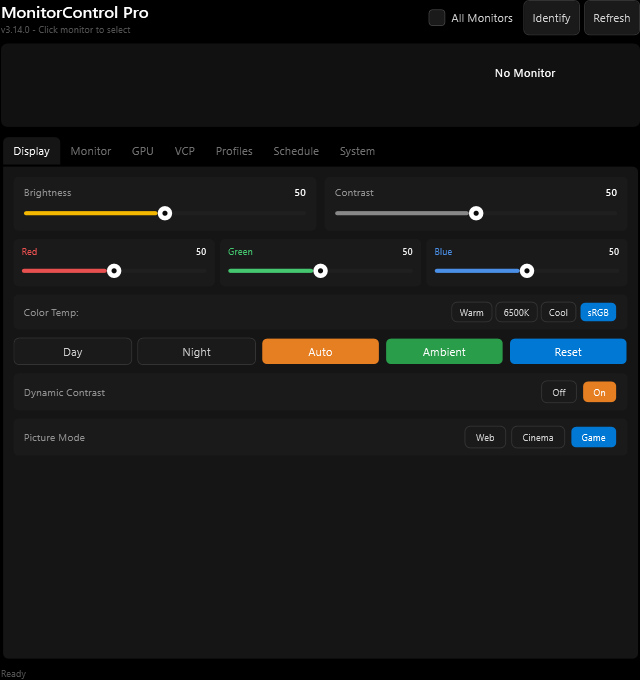
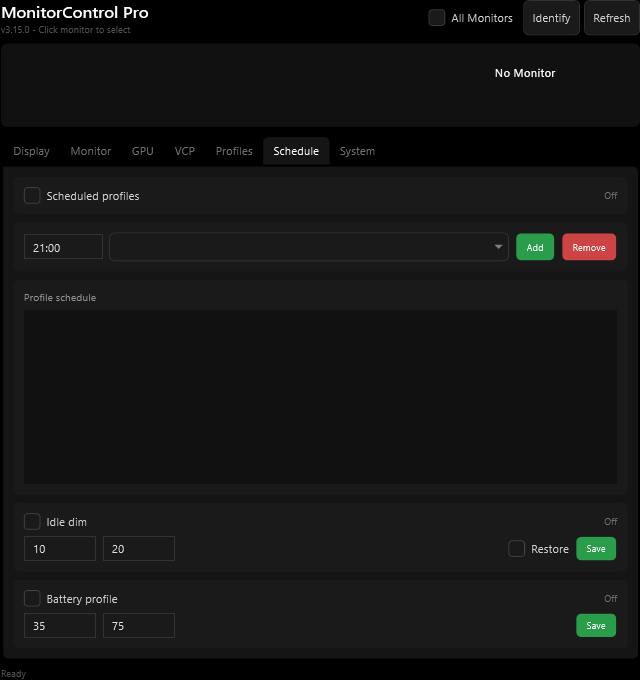
feat: add battery brightness profiles

diff --git a/README.md b/README.md
@@ -1,7 +1,7 @@
 # MonitorControl Pro
 
 <p align="center">
-  <img src="https://img.shields.io/badge/Version-v3.14.0-brightgreen" alt="Version v3.14.0">
+  <img src="https://img.shields.io/badge/Version-v3.15.0-brightgreen" alt="Version v3.15.0">
   <img src="https://img.shields.io/badge/PowerShell-5.1+-blue?logo=powershell" alt="PowerShell 5.1+">
   <img src="https://img.shields.io/badge/Windows-10%2F11-0078D6?logo=windows" alt="Windows 10/11">
   <img src="https://img.shields.io/badge/DDC%2FCI-Supported-green" alt="DDC/CI">
@@ -35,6 +35,7 @@ A comprehensive Windows GUI utility for controlling monitor settings via DDC/CI 
 - **Scheduled Profiles** - Apply saved profiles automatically from explicit `HH:mm` daily schedule rules
 - **Idle Dim** - Poll Windows idle time and dim all monitors after inactivity, with optional brightness restore on activity
 - **Ambient Light Mode** - Poll Windows `LightSensor` readings and map lux to monitor brightness automatically when a sensor is available
+- **Battery Profile** - Apply separate brightness targets when Windows switches between AC power and battery
 - **Auto Mode** - Automatic brightness and color temperature based on time of day:
   - Day (7 AM - 6 PM): 80% brightness, neutral colors
   - Evening (6 PM - 9 PM): 60% brightness, slightly warm

diff --git a/ROADMAP.md b/ROADMAP.md
@@ -5,8 +5,6 @@ PowerShell/WPF utility for DDC/CI monitor control â€” brightness, contrast,
 ## Planned Features
 
 ### Laptop Support
-- Battery-aware profile: dim on battery, bright on AC
-
 ### Data & Profiles
 - Profile JSON schema version + migration on load
 - Export/import profile bundle (all profiles at once)
